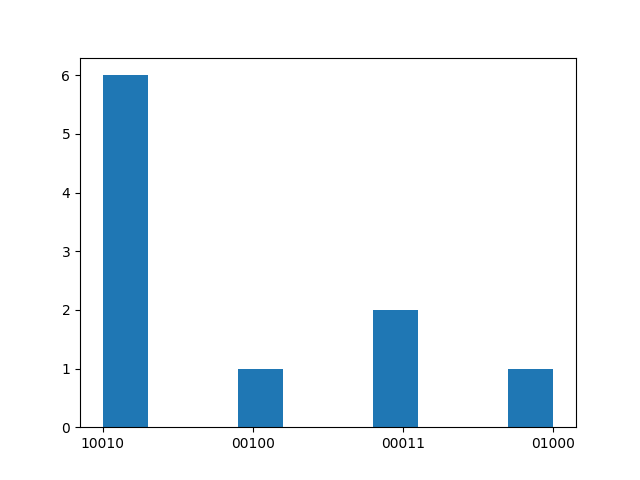
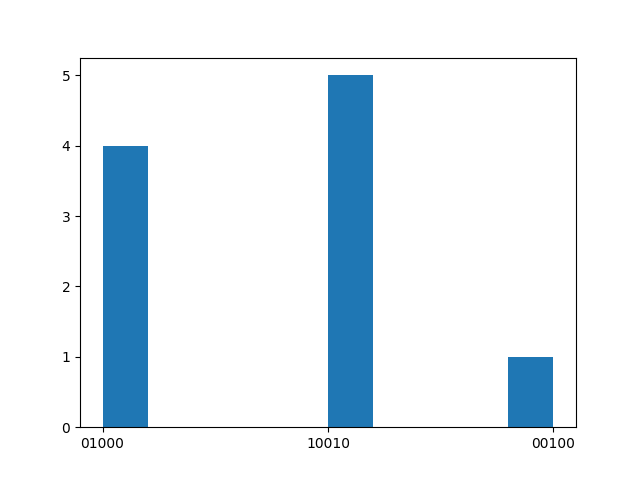
Working BIG_QMIS

diff --git a/Big_QMIS.py b/Big_QMIS.py
@@ -25,7 +25,7 @@ class BIG_QMIS:
             )  # À améliorer sinon ce n'est pas des int mais des str
             for node in self.graph.nodes()
         ]
-        n_cuts, membership = pymetis.part_graph(num_of_cuts, adjacency=adjacency_list)
+        membership = pymetis.part_graph(num_of_cuts, adjacency=adjacency_list)[1]
 
         if print_progression:
             print("Partionned the graph")
@@ -41,17 +41,25 @@ class BIG_QMIS:
         if print_progression:
             print("Sub_graphes created")
 
-        MIS_list = np.empty(len(sub_graphs))
+        MIS_list = []
 
         for i, (graph, nodes) in enumerate(zip(sub_graphs, nodes_per_graph)):
-            MIS_object = Quantum_MIS(graph)  # À faire
+            nodes_index_to_value = [graph.nodes()]
+            label_changer = dict()
+            for k in nodes_index_to_value:
+                label_changer["nodes_index_to_value[i]"] = k
+            MIS_object = Quantum_MIS(
+                nx.relabel_nodes(graph, label_changer, copy=True)
+            )  # À faire
             res_dict = MIS_object.run(shots=100)
             best_bitstring = max(zip(res_dict.values(), res_dict.keys()))[1]
             independant_nodes = []
             for j in range(len(best_bitstring)):
                 if best_bitstring[j] == "1":
                     independant_nodes.append((nodes_per_graph[i])[j])
-            MIS_list[i] = independant_nodes
+            MIS_list.append(independant_nodes)
+        print(nodes_per_graph)
+        print(MIS_list)
 
         if print_progression:
             print("MIS' done. Now combining")
@@ -76,11 +84,12 @@ class BIG_QMIS:
         tree_directed = nx.bfs_tree(tree, root)
         with_node = np.empty(tree.number_of_nodes())
         without_node = np.empty(tree.number_of_nodes())
-        root_indexes = [tree_directed.nodes()]
+        indexes = [i for i in tree_directed.nodes()]
+        print(indexes)
         mis_nodes = []
 
         def tree_mis_searcher(node):
-            node_index = root_indexes.index(node)
+            node_index = indexes.index(node)
             if tree_directed.out_degree(node) == 0:
                 with_node[node_index] = 1
                 without_node[node_index] = 0
@@ -89,10 +98,10 @@ class BIG_QMIS:
             without_node[node_index] = 0
             for i in tree_directed.successors(node):
                 tree_mis_searcher(i)
-                index_i = root_indexes.index(i)
-                with_node[node_index] += without_node(index_i)
+                index_i = indexes.index(i)
+                with_node[node_index] += without_node[index_i]
                 without_node[node_index] += max(
-                    without_node(index_i), with_node(index_i)
+                    without_node[index_i], with_node[index_i]
                 )
 
         def mis_explorer(node, exclude_node):
@@ -100,7 +109,7 @@ class BIG_QMIS:
                 if not exclude_node:
                     mis_nodes.append(node)
                 return
-            node_index = root_indexes.index(node)
+            node_index = indexes.index(node)
             if exclude_node or without_node[node_index] > with_node[node_index]:
                 for i in tree_directed.successors(node):
                     mis_explorer(i, exclude_node=False)
@@ -115,16 +124,18 @@ class BIG_QMIS:
 
         return mis_nodes
 
-    def root_finder(self, tree):
-        fartest_distances = np.empty(tree.number_of_nodes())
-        start = tree.nodes()[0]
-        for i, node in enumerate(tree.nodes):
-            fartest_distances[i] = nx.shortest_path_length(tree, start, node)
-        return np.argmax(fartest_distances)[0]
+    def root_finder(self, tree: nx.Graph):
+        fartest_distances = []
+        nodes_array = [i for i in tree.nodes()]
+        start = nodes_array[0]
+        for node in nodes_array:
+            fartest_distances.append(nx.shortest_path_length(tree, start, node))
+        root_index = np.argmax(fartest_distances)
+        return nodes_array[root_index]
 
-    def combine_mis(self, MIS_list: List[List[int]]):
+    def combine_mis(self, MIS_list: List[List[str]]):
         if len(MIS_list) == 1:
-            return MIS_list
+            return MIS_list[0]
         n = len(MIS_list) // 2
         MIS_one = self.combine_mis(MIS_list[:n])
         MIS_two = self.combine_mis(MIS_list[n:])
@@ -139,11 +150,14 @@ class BIG_QMIS:
             if u in MIS_one and v in MIS_two
         )
 
-        new_mis = np.array([nx.isolate(forest)])
-        forest.remove_edges_from(
-            new_mis
-        )  # Devrait marcher pour enlever nodes pas impliqués dans la combinaison
-
+        nodes_to_remove = [i for i in nx.isolates(forest)]
+        if nodes_to_remove is not []:
+            forest.remove_nodes_from(
+                nodes_to_remove
+            )  # Devrait marcher pour enlever nodes pas impliqués dans la combinaison
+        if forest.number_of_edges() == 0:
+            return MIS_list
+        new_mis = []
         for tree in nx.connected_components(forest):
             tree_graph = self.create_sub_graph(tree)
             result_mis = self.mis_tree(tree_graph)

diff --git a/QMIS_code/QMIS_utils.py b/QMIS_code/QMIS_utils.py
@@ -1,51 +1,71 @@
 from scipy.spatial import distance_matrix
 import numpy as np
 import matplotlib.pyplot as plt
+import networkx as nx
 
 
 def scale_coordinates(radius, coordinates, min_distance, max_distance):
-        # Calcul des distances entre les points pour estimer l'échelle
-        dist_matrix = distance_matrix(coordinates, coordinates)
-        np.fill_diagonal(dist_matrix, np.inf)  # Ignore la diagonale
-        min_dist = dist_matrix.min()  # Distance minimale dans les données d'origine
+    # Calcul des distances entre les points pour estimer l'échelle
+    dist_matrix = distance_matrix(coordinates, coordinates)
+    np.fill_diagonal(dist_matrix, np.inf)  # Ignore la diagonale
+    min_dist = dist_matrix.min()  # Distance minimale dans les données d'origine
 
-        # Calcul du facteur d'échelle pour assurer que la plus petite distance soit au moins `min_distance`
-        scale_factor = min_distance / min_dist
-        
-        # Applique le facteur d'échelle
-        scaled_coords = coordinates * scale_factor
-        scaled_radius = radius*scale_factor
+    # Calcul du facteur d'échelle pour assurer que la plus petite distance soit au moins `min_distance`
+    scale_factor = min_distance / min_dist
 
-        # Recentre les coordonnées pour qu'elles restent proches de l'origine si nécessaire
-        center_x = np.mean(scaled_coords[:, 0])
-        center_y = np.mean(scaled_coords[:, 1])
-        scaled_coords -= np.array([center_x, center_y])
+    # Applique le facteur d'échelle
+    scaled_coords = coordinates * scale_factor
+    scaled_radius = radius * scale_factor
 
-        # Ajuste à nouveau si certains points dépassent la limite de `max_distance`
-        max_dist_from_center = np.max(np.linalg.norm(scaled_coords, axis=1))
-        if max_dist_from_center > max_distance:
-            scale_factor = max_distance / max_dist_from_center
-            scaled_coords *= scale_factor
+    # Recentre les coordonnées pour qu'elles restent proches de l'origine si nécessaire
+    center_x = np.mean(scaled_coords[:, 0])
+    center_y = np.mean(scaled_coords[:, 1])
+    scaled_coords -= np.array([center_x, center_y])
 
-        return scaled_coords, scaled_radius
+    # Ajuste à nouveau si certains points dépassent la limite de `max_distance`
+    max_dist_from_center = np.max(np.linalg.norm(scaled_coords, axis=1))
+    if max_dist_from_center > max_distance:
+        scale_factor = max_distance / max_dist_from_center
+        scaled_coords *= scale_factor
+        scaled_radius *= scale_factor
 
-def find_unit_disk_radius(coords) -> float:
-        """Calcul du rayon optimal pour que le graphe soit un graphe de disque unitaire."""
-        distances = []
-        for i, coord1 in enumerate(coords):
-            for j, coord2 in enumerate(coords):
-                if i < j and np.linalg.norm(coord1 - coord2) <= 1:  # Connexion possible dans un graphe unitaire
-                    distances.append(np.linalg.norm(coord1 - coord2))
-        
-        # Rayon optimal pour que le graphe soit un graphe de disque unitaire
-        unit_disk_radius = max(distances) if distances else 1.0  # 1.0 comme valeur par défaut
-        return unit_disk_radius
+    return scaled_coords, scaled_radius
+
+
+def find_minimal_radius(G: nx.Graph, pos):
+    """
+    Trouve la distance minimale entre deux sommets reliés par une arête dans un graphe.
+
+    :param G: Un graphe NetworkX.
+    :param coords: Un dictionnaire contenant les coordonnées des sommets {node: (x, y)}.
+    :return: La distance minimale entre deux sommets reliés par une arête.
+    """
+    max_distance = 0  # Initialise la distance minimale avec une valeur infinie
+
+    for u, v in G.edges():  # Parcourt toutes les arêtes du graphe
+        # Récupère les coordonnées des deux sommets
+        coord_u = np.array(pos[u])
+        coord_v = np.array(pos[v])
+
+        # Calcule la distance euclidienne entre les deux sommets
+        distance = euclid_dist(coord_u, coord_v)
+
+        # Met à jour la distance minimale
+        if distance > max_distance:
+            max_distance = distance
+
+    return max_distance
+
 
 def plot_histogram(count_dict, shots: int, file_name: str):
-    most_freq = {k: v for k, v in count_dict.items() if v > 0.02*shots} 
+    most_freq = {k: v for k, v in count_dict.items() if v > 0.02 * shots}
     plt.bar(list(most_freq.keys()), list(most_freq.values()))
     plt.xticks(rotation="vertical")
-    plt.ylabel('counts')
-    plt.xlabel('bitstrings')
+    plt.ylabel("counts")
+    plt.xlabel("bitstrings")
     plt.savefig(file_name)
     plt.show()
+
+
+def euclid_dist(pos1, pos2):
+    return ((pos1[0] - pos2[0]) ** 2 + (pos1[1] - pos2[1]) ** 2) ** 0.5

diff --git a/QMIS_code/Quantum_MIS.py b/QMIS_code/Quantum_MIS.py
@@ -1,40 +1,32 @@
 from numpy.typing import NDArray
 import numpy as np
+import networkx as nx
 from pulser import Register, Pulse, Sequence
 from pulser_simulation import QutipEmulator
 from pulser.devices import AnalogDevice
 from pulser.waveforms import InterpolatedWaveform
-from QMIS_code.QMIS_utils import (
-    scale_coordinates,
-    find_unit_disk_radius,
-    plot_histogram,
-)
+from QMIS_code.QMIS_utils import scale_coordinates, find_minimal_radius, plot_histogram
 
 
 class Quantum_MIS:
-    def __init__(self, coords: NDArray, radius: float = None) -> None:
-
-        self.coords = coords
-        if radius == None:
-            self.radius = find_unit_disk_radius(self.coords)
-        else:
-            self.radius = radius
+    def __init__(self, graph: nx.graph) -> None:
+        self.G = graph
+        self.pos = nx.spring_layout(self.G, seed=42)
+        self.coords = np.array(list(self.pos.values()))
+        self.radius = find_minimal_radius(self.G, self.pos)
         self.reg = self.build_reg()
 
-    def build_reg(self):
+    def build_reg(self) -> Register:
         MAX_D = 35
         MIN_D = 5
-
-        # Scale coordinates based on min and max distances
         scaled_coords, self.radius = scale_coordinates(
             self.radius, self.coords, MIN_D, MAX_D
         )
-        reg = Register.from_coordinates(scaled_coords, prefix="N")
-
+        qubits = dict(enumerate(scaled_coords))
+        reg = Register(qubits)
         return reg
 
-    def print_reg(self):
-
+    def print_reg(self) -> None:
         self.reg.draw(
             blockade_radius=self.radius, draw_graph=True, draw_half_radius=True
         )
@@ -48,7 +40,6 @@ class Quantum_MIS:
 
         Omega_r_b = AnalogDevice.rabi_from_blockade(self.radius)
         Omega_pulse_max = AnalogDevice.channels["rydberg_global"].max_amp
-
         Omega = min(Omega_pulse_max, Omega_r_b)
 
         delta_0 = -5  # Valeur de désaccord souhaité au début du pulse

diff --git a/test_graphes.py b/test_graphes.py
@@ -1,0 +1,17 @@
+import numpy as np
+import networkx as nx
+import matplotlib.pyplot as plt
+from Big_QMIS import BIG_QMIS
+
+
+G = nx.Graph()  # Création d'un graphe sans sommet et sans arête
+nodes = [0, 1, 2, 3, 4]
+nodes = [str(i) for i in nodes]
+edges = [(0, 1), (0, 2), (0, 4), (1, 2), (1, 4), (1, 3), (2, 4), (2, 3)]
+edges = [tuple([str(j), str(k)]) for (j, k) in edges]
+G.add_nodes_from(nodes)  # On ajoute 3 sommets
+G.add_edges_from(edges)
+nx.draw(G, with_labels=True)
+
+solver = BIG_QMIS(G, num_atoms=3)
+print(solver.run(print_progression=True))
